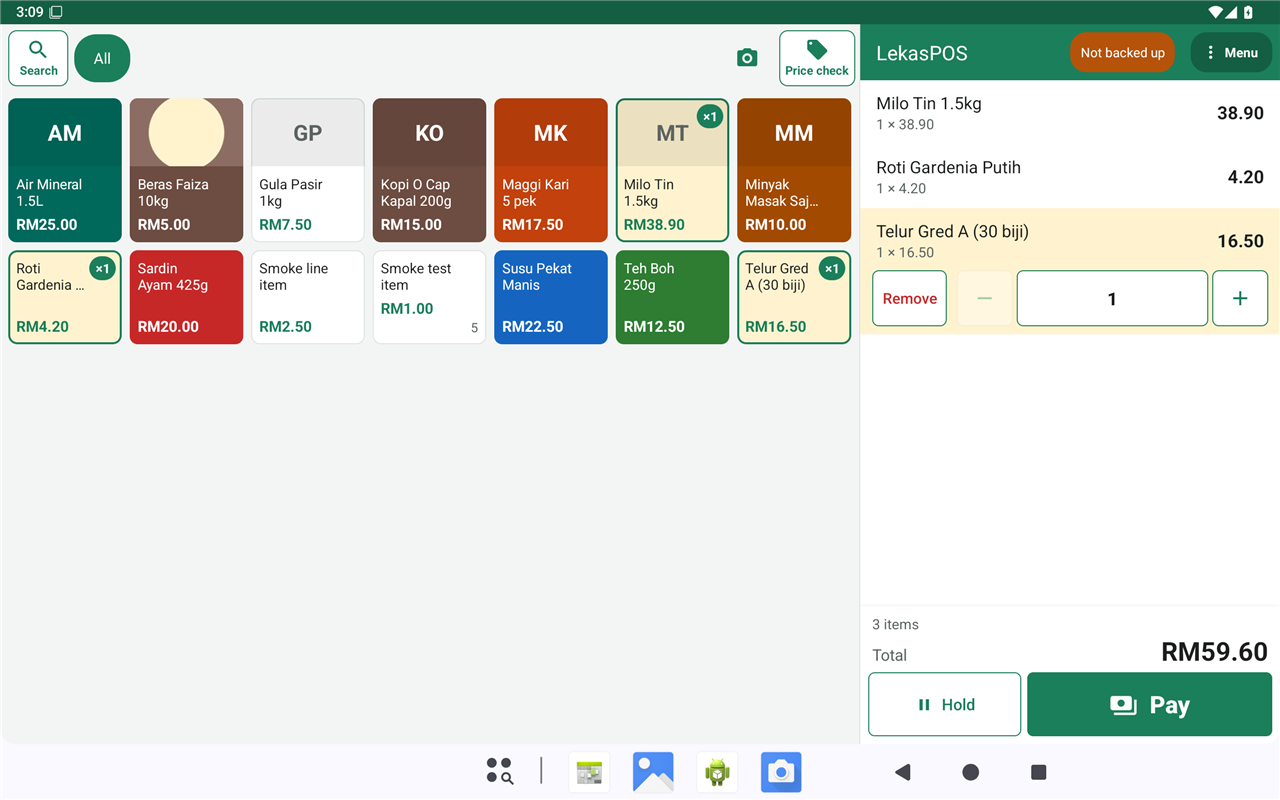
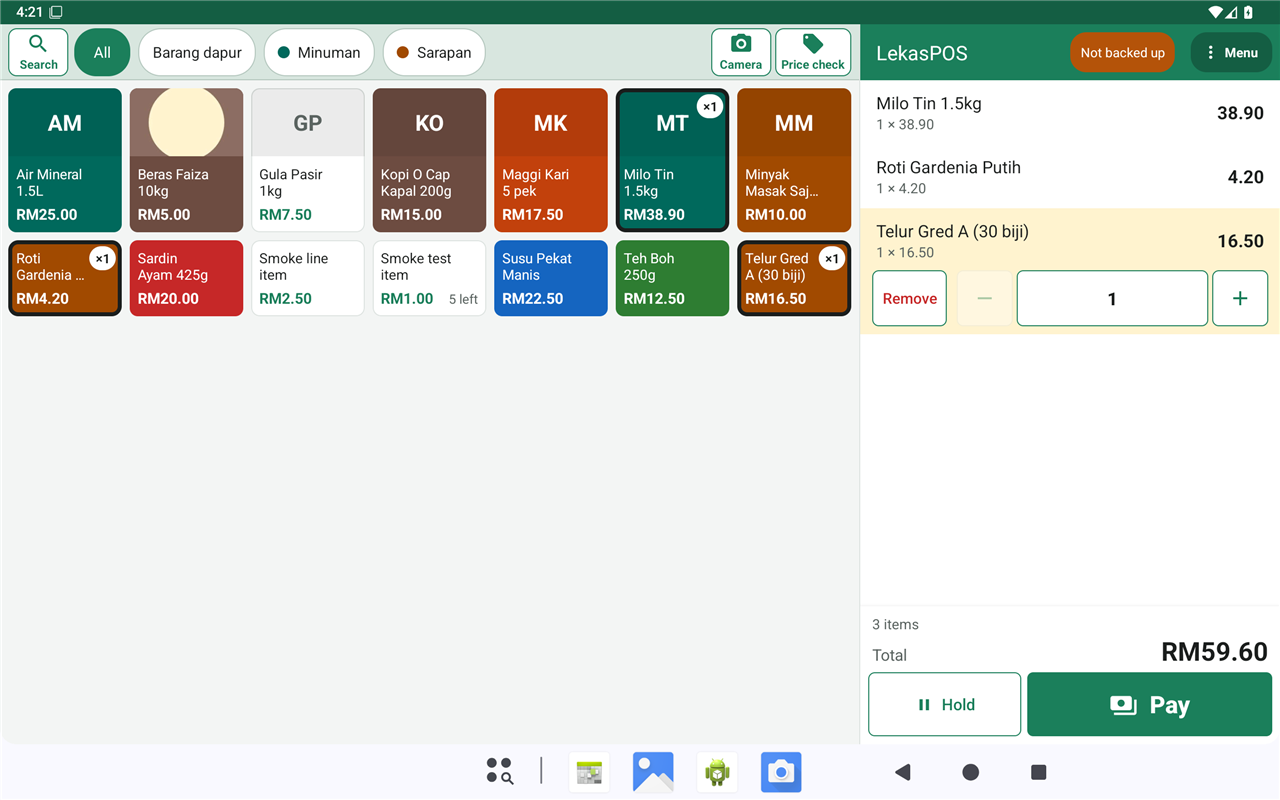
1.19.1 test build published (build 197); guide pictures of the selling screen

Changed region(s): [[0.0, 0.0, 0.6875, 0.4375]]

diff --git a/docs/PHASES.md b/docs/PHASES.md
@@ -42,7 +42,7 @@ to the user. **The next phase starts only after the user's real-device feedback.
 | — | **1.17.0**: the owner's feedback on 1.16.1 — every tappable control looks like a button (dialog buttons, payment, "Tap here" texts); the catalogue opens on All; held sideways the tiles start at the top; no Share after a sale; Settings → Beep sound (this till's speaker by default, not the cast TV) (D-076) | test builds v1.17.0 (build 180), v1.17.1 (build 182: the bill right under the bar again, Menu a pill) and v1.17.2 (build 184: Menu apart from the cashier's name) | **released** 2026-10-13 (v1.17.2, build 184) — the owner asked to release it ("yup publish it"); offered in the app to shops on 1.6.1+; phone checks still to run |
 | — | **1.17.3**: the product form says what a barcode is and that the SKU is not one ("Your own code (SKU)") — the owner found the two read as the same thing | **released** 2026-10-13 (v1.17.3, build 187) — the owner asked to release it ("do it all for me") and checked it on the phone: "all good"; offered in the app to shops on 1.6.1+ |
 | — | **1.18.0**: the till asks to close the shift — Lock / switch user asks "Close the shift?", an optional closing-time reminder; the drawer's money moves renamed to what they are: Add cash, Pay from drawer, Take out extra cash (D-077) | **released** 2026-10-13 (v1.18.0, build 190) — tested by the owner: "ok all good now" |
-| — | **1.19.0 / 1.19.1**: the category chips in the top row beside a **Search** button; Search opens the box in their place (D-078); 1.19.1: the row on a light band, the selling screen audited — the row as high as the top bar, Camera with its word, the search box the whole row on a phone, "5 left" beside the tile price, the last sale first on an empty bill | test build v1.19.0 (build 195); **v1.19.1** next |
+| — | **1.19.0 / 1.19.1**: the category chips in the top row beside a **Search** button; Search opens the box in their place (D-078); 1.19.1: the row on a light band, the selling screen audited — the row as high as the top bar, Camera with its word, the search box the whole row on a phone, "5 left" beside the tile price, the last sale first on an empty bill | test builds v1.19.0 (build 195) and **v1.19.1** (build 197) — waiting for the owner's phone check |
 
 ## Open questions for the user
 
@@ -2231,7 +2231,14 @@ after click search all category will be disappear and search bar will be fill th
       tool with its word on two panes; the open search box the whole row on a phone upright; chips fade at the edges; tile
       stock beside the price, "5 left" / "None left" (BM "Stok 5" / "Habis"); the last sale first on an empty bill.
       `ScreenshotsTest`: three categories in the test shop, new pictures `sell-items` (phone: Items) and `sell-search`
-- [ ] CI; test build v1.19.1; guide pictures; the owner's phone check
+- [x] CI run 38428148298 (06a7e12, build 197): all jobs green (build, lint, instrumented API 21 + 36, tablet, release smoke
+      API 21 + 36). Release APK **1,669,504 bytes**. Pictures checked: on the tablet the band is as high as the top bar and
+      the tile prices line up; on the phone the open search box has the whole row and the empty bill starts with the change
+- [x] **Test build v1.19.1** (2026-10-14): pre-release on 06a7e12, build 197; SHA-256 `a88f8af4…676f`; certificate
+      `0a67abec…d4b9`; `mapping-1.19.1.txt` attached. 1.18.0 stays the latest release
+- [x] Guide pictures from that run: `en/ms-sell`, `-sell-empty`, `-tablet-sell`, and the pay, cash, Menu and dialog pictures
+      (the selling screen behind them)
+- [ ] The owner's phone check
 
 ### Needs real-device testing (1.19.0)
 
